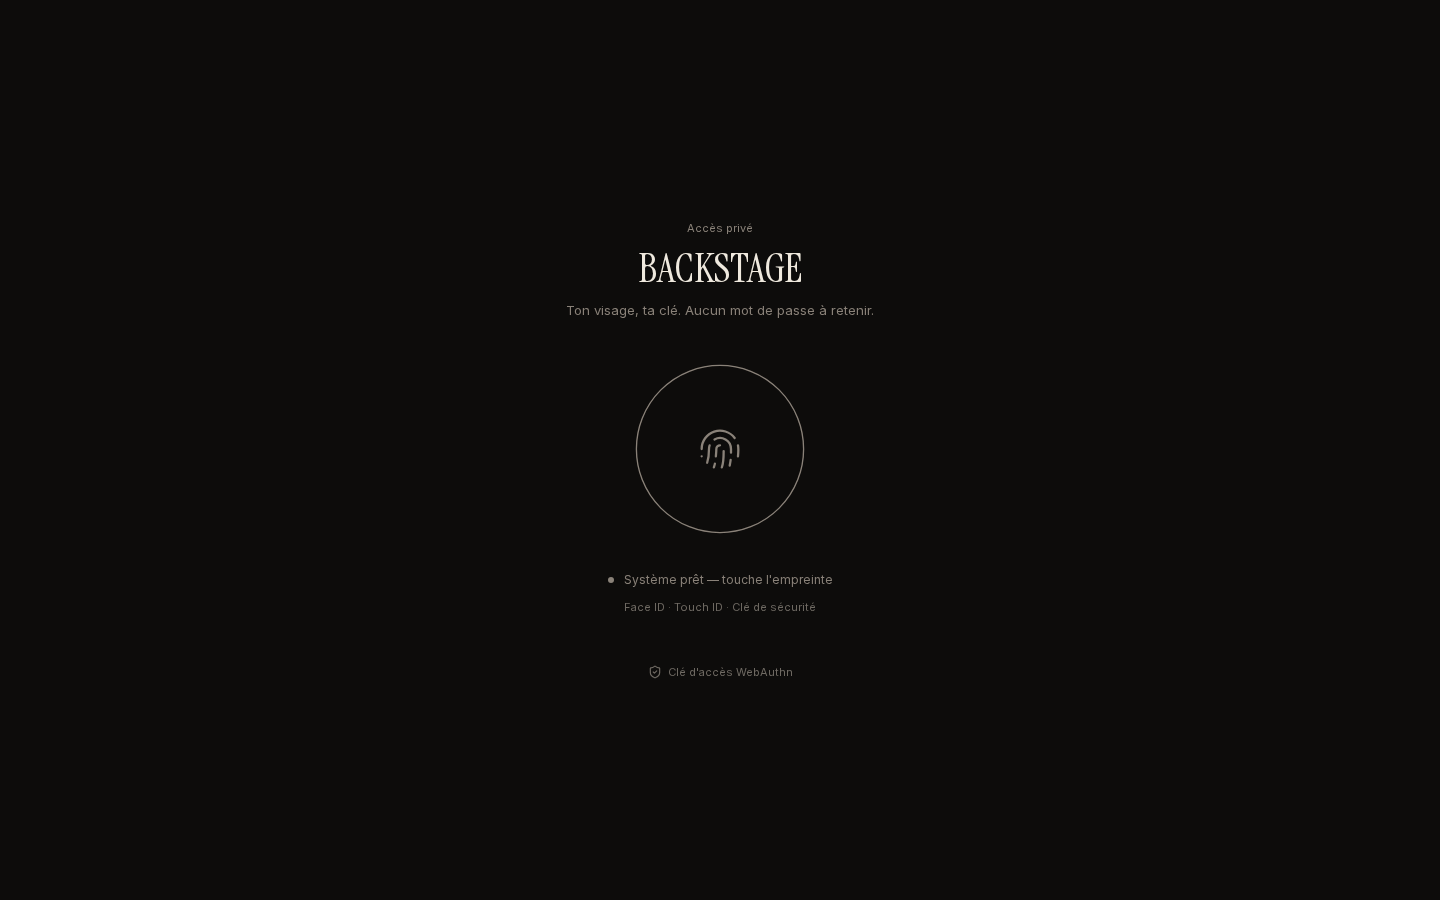
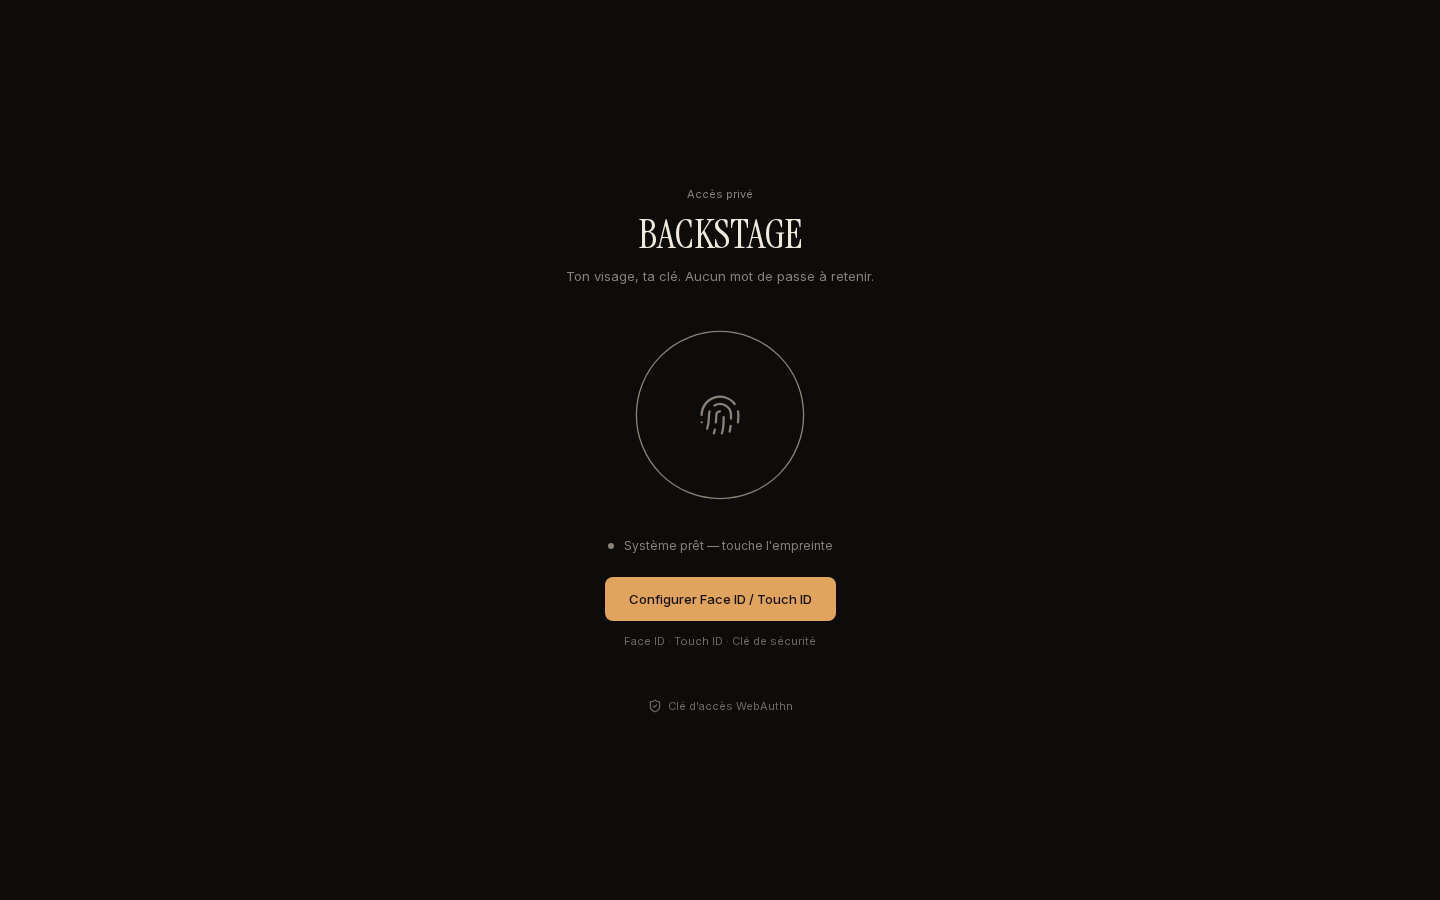
fix(login): rétablir un bouton passkey libellé
L'anneau était devenu la seule action, sans libellé visible : le test E2E
« la page de login affiche un bouton de connexion passkey » ne trouvait
plus d'élément. L'anneau redevient décoratif (aria-hidden) et un bouton
ambre explicite porte l'action et le libellé. Capture après mise à jour.

diff --git a/app/login/page.tsx b/app/login/page.tsx
@@ -179,13 +179,10 @@ function LoginForm() {
         </p>
 
         {/* L'anneau biométrique — le seul moment lumineux de l'écran */}
-        <button
-          type="button"
-          aria-label={label}
-          onClick={() => (needsRegistration ? handleRegister() : handleAuthenticate())}
-          disabled={isBusy || needsRegistration === null}
+        <div
+          aria-hidden="true"
           data-phase={phase}
-          className="login-ring relative mt-10 w-44 h-44 rounded-full disabled:cursor-not-allowed transition-colors duration-200"
+          className="login-ring relative mt-10 w-44 h-44 rounded-full transition-colors duration-200"
         >
           <svg viewBox="0 0 200 200" className="w-full h-full" aria-hidden>
             <circle
@@ -217,7 +214,7 @@ function LoginForm() {
               <Check className="w-10 h-10" strokeWidth={1.5} />
             </span>
           </span>
-        </button>
+        </div>
 
         {/* Ligne de statut */}
         <div className="mt-8 min-h-[22px] flex items-center justify-center gap-2.5 px-4">
@@ -244,15 +241,24 @@ function LoginForm() {
           )}
         </div>
 
-        <p className="mt-2 text-[11px] font-mono text-[var(--text-4)]">
+        <button
+          type="button"
+          onClick={() => (needsRegistration ? handleRegister() : handleAuthenticate())}
+          disabled={isBusy || needsRegistration === null}
+          className="mt-5 inline-flex h-11 items-center justify-center gap-2 rounded-lg bg-[var(--accent)] px-6 text-[13px] font-medium text-[#17110a] transition-colors duration-150 hover:bg-[#ebb275] active:scale-[0.99] disabled:cursor-not-allowed disabled:opacity-40 disabled:hover:bg-[var(--accent)]"
+        >
           {isBusy && !verified ? (
-            <span className="inline-flex items-center gap-2">
+            <>
               <Loader2 className="w-3.5 h-3.5 animate-spin" />
               {label}
-            </span>
+            </>
           ) : (
-            "Face ID · Touch ID · Clé de sécurité"
+            label
           )}
+        </button>
+
+        <p className="mt-3 text-[11px] font-mono text-[var(--text-4)]">
+          Face ID · Touch ID · Clé de sécurité
         </p>
 
         <p className="text-[11px] text-[var(--text-4)] mt-12 text-center">
